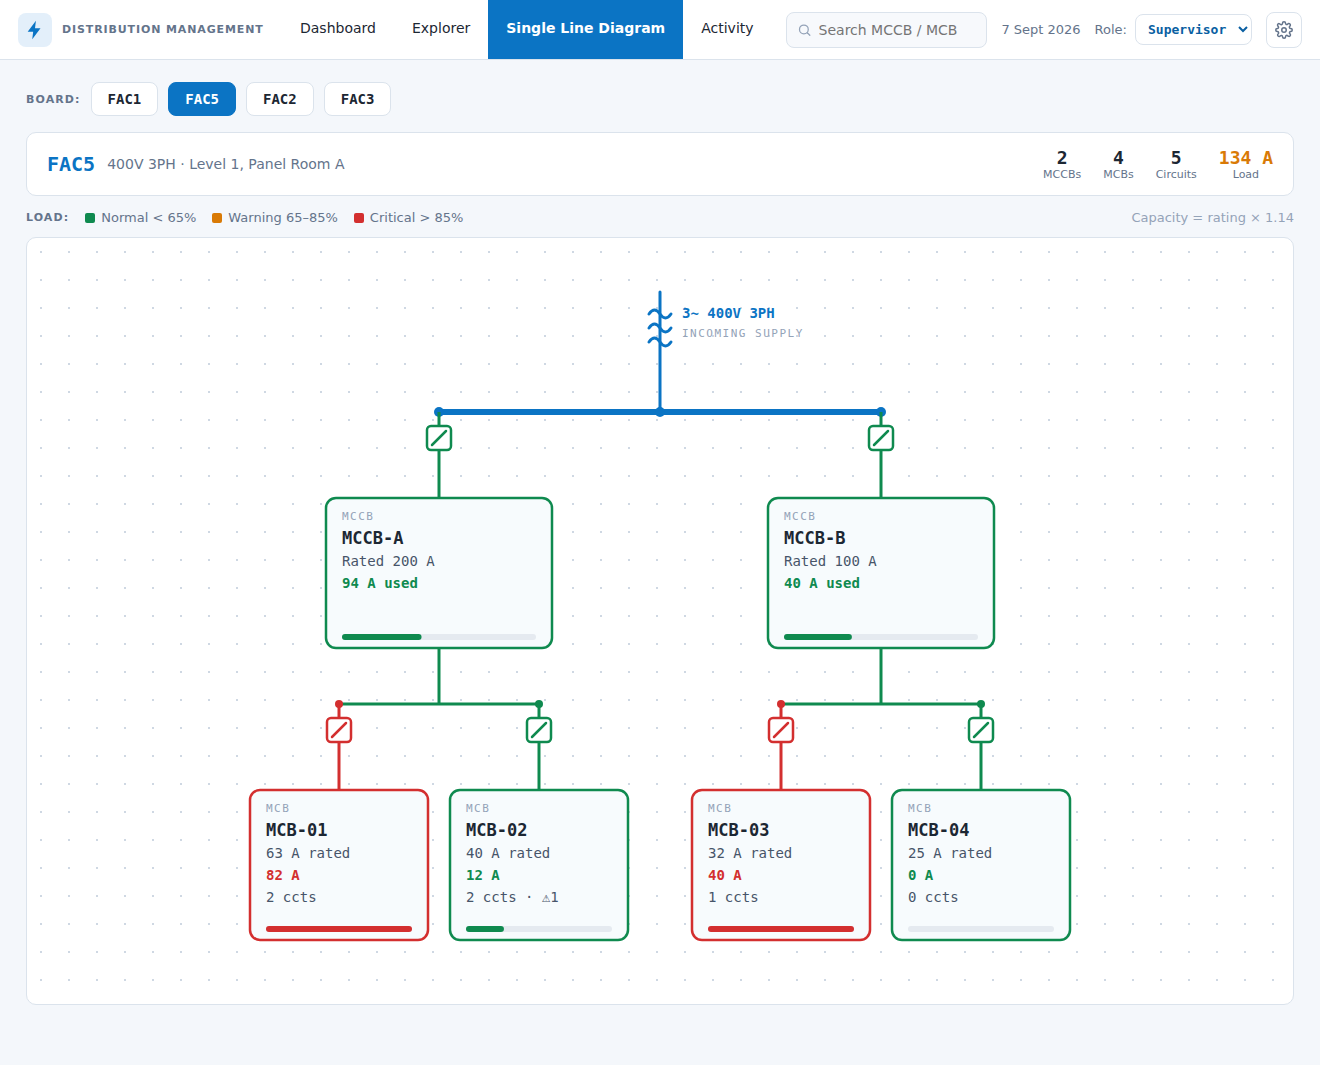
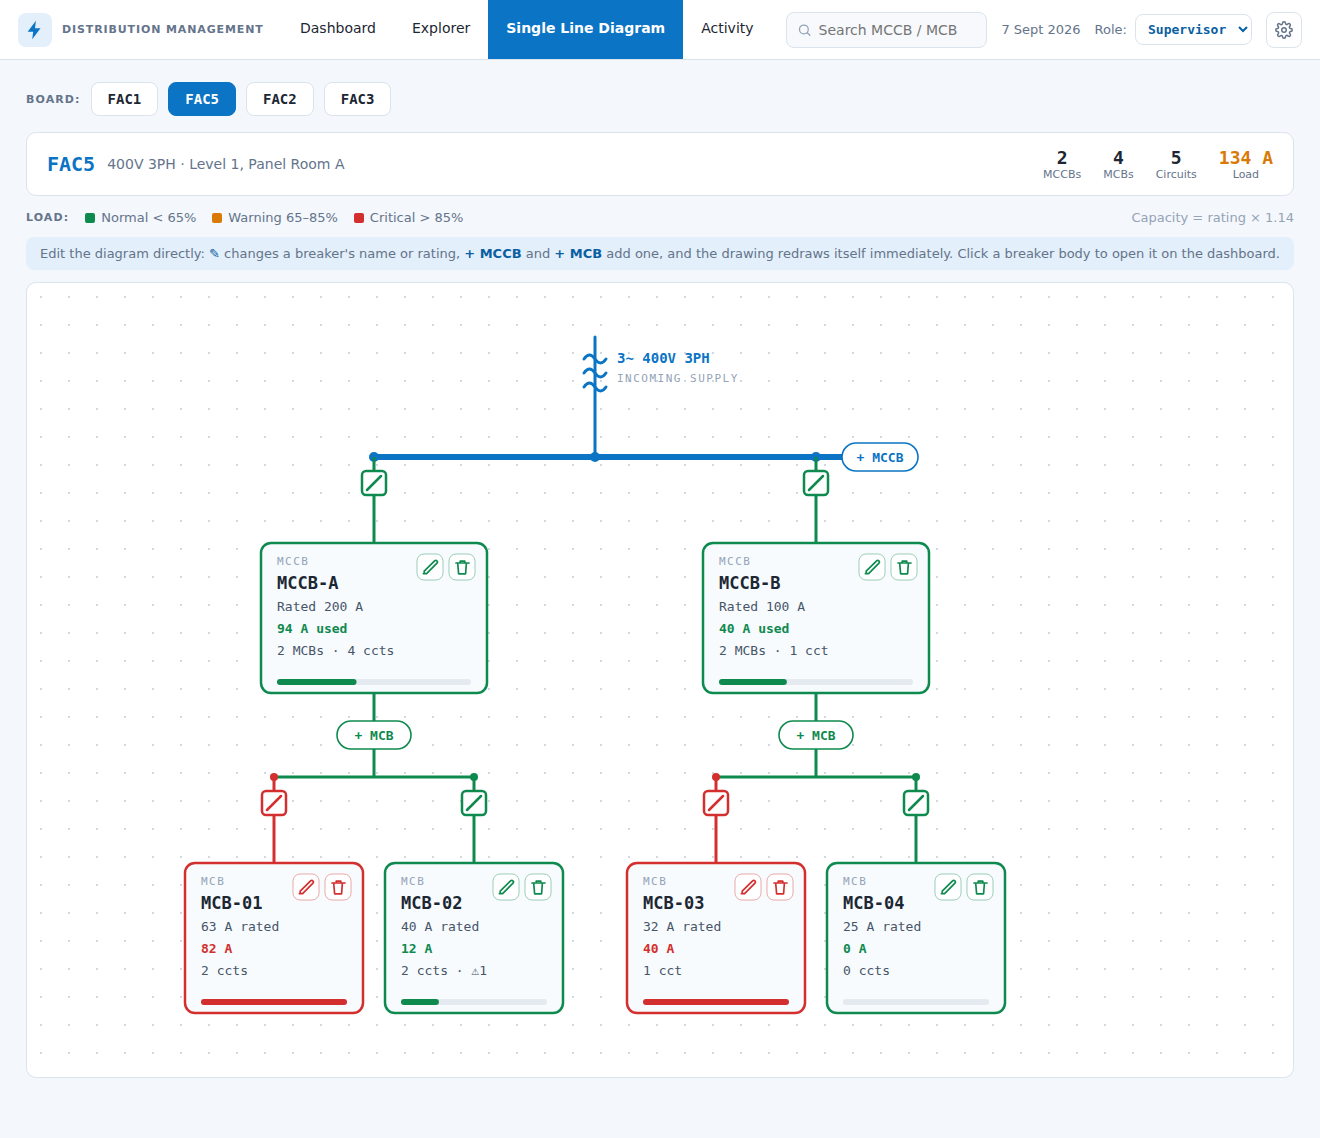
Make MCCBs and MCBs editable directly on the single line diagram
The diagram was read-only; breakers could only be changed from the
dashboard. Every breaker on the SLD now carries its own controls and the
drawing redraws itself as soon as a change is saved.

- Pencil icon on each MCCB/MCB node opens the edit dialog (technician+),
  bin icon deletes it (supervisor); clicking the node body still opens it
  on the dashboard
- "+ MCCB" control on the main busbar and "+ MCB" on each MCCB's drop add
  new breakers in place, so a board can be built up from an empty diagram
- An MCB can be moved to a different MCCB from its edit dialog; the API
  and audit log record the move and the diagram re-routes the branch
- The node that was just added or changed flashes, on the diagram and on
  the dashboard, and new circuits flash too
- Node boxes grew to carry an MCB/circuit count line and the icons

Claude-Session: https://claude.ai/code/session_01SM466UUwg8rhNT1MzNB92w

diff --git a/web/app.js b/web/app.js
@@ -495,43 +495,81 @@
           <span><i style="background:var(--red)"></i>Critical &gt; ${st.crit_pct}%</span>
           <span class="faint" style="margin-left:auto">Capacity = rating × ${st.trip_factor}</span>
         </div>
+        ${canEdit() ? '<p class="sld-hint">Edit the diagram directly: <b>✎</b> changes a breaker\'s name or rating, <b>+ MCCB</b> and <b>+ MCB</b> add one, and the drawing redraws itself immediately. Click a breaker body to open it on the dashboard.</p>' : ''}
         <div class="sld-canvas">${sldSVG(b)}</div>` : '<div class="empty"><h2>No board to draw</h2></div>'}
       </div>`;
+    applyFocus();
+  }
+
+  // Icons drawn as paths so they stay crisp and match the line colours.
+  const SLD_ICONS = {
+    edit: '<path d="M3.4 16.6h3.2L17 6.2a1.7 1.7 0 0 0-2.4-2.4L4.2 14.2v2.4z"/>',
+    del: '<path d="M4 6h13M8.2 6V4.2h4.6V6M5.7 6l.9 10.8h7L14.4 6"/>',
+  };
+
+  function sldIconBtn(x, y, icon, action, id, title, col) {
+    return `<g class="sld-btn" data-action="${action}" data-id="${id}"><title>${esc(title)}</title>` +
+      `<rect x="${x}" y="${y}" width="26" height="26" rx="7" fill="#fff" stroke="${col}" stroke-opacity=".4"/>` +
+      `<g transform="translate(${x + 3} ${y + 3})" fill="none" stroke="${col}" stroke-width="1.7" stroke-linecap="round" stroke-linejoin="round">${SLD_ICONS[icon]}</g></g>`;
+  }
+
+  function sldPill(cx, cy, w, label, attrs, col, title) {
+    return `<g class="sld-pill" ${attrs}><title>${esc(title)}</title>` +
+      `<rect x="${cx - w / 2}" y="${cy - 14}" width="${w}" height="28" rx="14" fill="#fff" stroke="${col}" stroke-width="1.6"/>` +
+      `<text x="${cx}" y="${cy + 5}" text-anchor="middle" font-size="13" font-weight="700" fill="${col}">${esc(label)}</text></g>`;
   }
 
   function sldSVG(b) {
     const COLORS = { normal: '#0f8a4f', warning: '#d97a06', critical: '#d32f2f', bus: '#0b74c4' };
+    const edit = canEdit(), manage = canManage();
     const NODE_W = 178, NODE_H = 150, MCB_GAP = 22, MCCB_W = 226, MCCB_H = 150, GROUP_GAP = 64, MARGIN = 40;
     const groups = b.mccbs.map(m => {
       const n = Math.max(1, m.mcbs.length);
       return { m, width: Math.max(MCCB_W, n * NODE_W + (n - 1) * MCB_GAP) };
     });
+    const anyMCB = groups.some(g => g.m.mcbs.length);
     const contentW = groups.reduce((s, g) => s + g.width, 0) + Math.max(0, groups.length - 1) * GROUP_GAP;
-    const W = Math.max(520, contentW + MARGIN * 2);
-    const supplyY = 30, busY = supplyY + 120, mccbSwY = busY + 26, mccbBoxY = busY + 86;
-    const mcbBusY = mccbBoxY + MCCB_H + 56, mcbSwY = mcbBusY + 26, mcbBoxY = mcbBusY + 86;
-    const H = (groups.length ? mcbBoxY + NODE_H : busY + 60) + MARGIN;
-    const cx0 = W / 2;
-    let out = [];
-    // incoming supply
+    const rightExtra = edit ? 130 : 0;
+    const W = Math.max(560, contentW + MARGIN * 2 + rightExtra);
+    const supplyY = 30, busY = supplyY + 120;
+    const mccbSwY = busY + 26, mccbBoxY = busY + 86;
+    const dropGap = edit ? 84 : 56;
+    const mcbBusY = mccbBoxY + MCCB_H + dropGap, mcbSwY = mcbBusY + 26, mcbBoxY = mcbBusY + 86;
+    const addMcbY = mccbBoxY + MCCB_H + 42;
+    let H;
+    if (!groups.length) H = busY + 110;
+    else if (!anyMCB) H = mccbBoxY + MCCB_H + (edit ? 90 : 40);
+    else H = mcbBoxY + NODE_H + MARGIN;
+
+    const startX = MARGIN + (W - MARGIN * 2 - rightExtra - contentW) / 2;
+    const centers = [];
+    let x = startX;
+    groups.forEach(g => { centers.push(x + g.width / 2); x += g.width + GROUP_GAP; });
+    const cCenter = groups.length ? startX + contentW / 2 : W / 2;
+
+    const out = [];
+    // Incoming supply: transformer squiggle and drop to the main busbar.
     out.push(`<g stroke="${COLORS.bus}" stroke-width="3" fill="none" stroke-linecap="round">
-      <line x1="${cx0}" y1="${supplyY}" x2="${cx0}" y2="${busY}"/>
-      ${[0, 1, 2].map(i => `<path d="M ${cx0 - 11} ${supplyY + 22 + i * 14} q 5.5 -8 11 0 t 11 0"/>`).join('')}
+      <line x1="${cCenter}" y1="${supplyY}" x2="${cCenter}" y2="${busY}"/>
+      ${[0, 1, 2].map(i => `<path d="M ${cCenter - 11} ${supplyY + 22 + i * 14} q 5.5 -8 11 0 t 11 0"/>`).join('')}
     </g>
-    <text x="${cx0 + 22}" y="${supplyY + 26}" font-size="14" font-weight="700" fill="${COLORS.bus}">3~ ${esc(b.voltage)} ${esc(b.phases)}</text>
-    <text x="${cx0 + 22}" y="${supplyY + 45}" font-size="11" fill="#94a3b8" letter-spacing="1.5">INCOMING SUPPLY</text>`);
+    <text x="${cCenter + 22}" y="${supplyY + 26}" font-size="14" font-weight="700" fill="${COLORS.bus}">3~ ${esc(b.voltage)} ${esc(b.phases)}</text>
+    <text x="${cCenter + 22}" y="${supplyY + 45}" font-size="11" fill="#94a3b8" letter-spacing="1.5">INCOMING SUPPLY</text>`);
+
+    // Main busbar, extended to the right to carry the "add MCCB" control.
+    let busL, busR;
+    if (groups.length > 1) { busL = Math.min(centers[0], cCenter); busR = Math.max(centers[centers.length - 1], cCenter); }
+    else { busL = cCenter - 110; busR = cCenter + 110; }
+    const addMccbX = busR + 64;
+    const busEnd = edit ? addMccbX - 38 : busR;
+    out.push(`<line x1="${busL}" y1="${busY}" x2="${busEnd}" y2="${busY}" stroke="${COLORS.bus}" stroke-width="6" stroke-linecap="round"/>`);
+    out.push(`<circle cx="${cCenter}" cy="${busY}" r="5" fill="${COLORS.bus}"/>`);
+    if (edit) out.push(sldPill(addMccbX, busY, 76, '+ MCCB', 'data-action="add-mccb"', COLORS.bus, 'Add an MCCB to this board'));
+
     if (!groups.length) {
-      out.push(`<line x1="${cx0 - 120}" y1="${busY}" x2="${cx0 + 120}" y2="${busY}" stroke="${COLORS.bus}" stroke-width="6" stroke-linecap="round"/>
-        <text x="${cx0}" y="${busY + 40}" text-anchor="middle" font-size="13" fill="#64748b">No MCCBs on this board</text>`);
+      out.push(`<text x="${cCenter}" y="${busY + 46}" text-anchor="middle" font-size="13" fill="#64748b">No MCCBs on this board${edit ? ' - use + MCCB to add the first one' : ''}</text>`);
       return wrap(W, H, out.join(''));
     }
-    // main bus
-    let x = MARGIN + (W - MARGIN * 2 - contentW) / 2;
-    const centers = [];
-    groups.forEach(g => { centers.push(x + g.width / 2); x += g.width + GROUP_GAP; });
-    const busX1 = groups.length > 1 ? centers[0] : cx0 - 120, busX2 = groups.length > 1 ? centers[centers.length - 1] : cx0 + 120;
-    out.push(`<line x1="${Math.min(busX1, cx0)}" y1="${busY}" x2="${Math.max(busX2, cx0)}" y2="${busY}" stroke="${COLORS.bus}" stroke-width="6" stroke-linecap="round"/>`);
-    out.push(`<circle cx="${cx0}" cy="${busY}" r="5" fill="${COLORS.bus}"/>`);
 
     groups.forEach((g, gi) => {
       const m = g.m, cx = centers[gi], col = COLORS[m.level] || COLORS.normal;
@@ -539,22 +577,41 @@
       out.push(`<line x1="${cx}" y1="${busY}" x2="${cx}" y2="${mccbBoxY}" stroke="${col}" stroke-width="3"/>`);
       out.push(breakerSymbol(cx, mccbSwY, col));
       out.push(nodeBox(cx - MCCB_W / 2, mccbBoxY, MCCB_W, MCCB_H, col, 'MCCB', m.name,
-        [`Rated ${fmtA(m.rating_a)} A`, { text: `${fmtA(m.current)} A used`, color: col, bold: true }], m.pct, 'mccb-' + m.id));
-      if (!m.mcbs.length) return;
+        [`Rated ${fmtA(m.rating_a)} A`, { text: `${fmtA(m.current)} A used`, color: col, bold: true },
+          `${m.mcb_count} MCB${m.mcb_count === 1 ? '' : 's'} · ${m.circuit_count} cct${m.circuit_count === 1 ? '' : 's'}`],
+        m.pct, 'mccb-' + m.id, [
+          edit ? { icon: 'edit', action: 'edit-mccb', id: m.id, title: 'Edit ' + m.name } : null,
+          manage ? { icon: 'del', action: 'delete-mccb', id: m.id, title: 'Delete ' + m.name } : null,
+        ]));
+
       const n = m.mcbs.length;
+      if (!n) {
+        if (edit) {
+          out.push(`<line x1="${cx}" y1="${mccbBoxY + MCCB_H}" x2="${cx}" y2="${addMcbY - 14}" stroke="${col}" stroke-width="3" stroke-dasharray="5 5"/>`);
+          out.push(sldPill(cx, addMcbY, 74, '+ MCB', `data-action="add-mcb" data-id="${m.id}"`, col, 'Add an MCB under ' + m.name));
+        }
+        return;
+      }
       const spanW = n * NODE_W + (n - 1) * MCB_GAP;
-      const startX = cx - spanW / 2;
+      const left = cx - spanW / 2;
       out.push(`<line x1="${cx}" y1="${mccbBoxY + MCCB_H}" x2="${cx}" y2="${mcbBusY}" stroke="${col}" stroke-width="3"/>`);
-      if (n > 1) out.push(`<line x1="${startX + NODE_W / 2}" y1="${mcbBusY}" x2="${startX + spanW - NODE_W / 2}" y2="${mcbBusY}" stroke="${col}" stroke-width="3" stroke-linecap="round"/>`);
+      if (n > 1) out.push(`<line x1="${left + NODE_W / 2}" y1="${mcbBusY}" x2="${left + spanW - NODE_W / 2}" y2="${mcbBusY}" stroke="${col}" stroke-width="3" stroke-linecap="round"/>`);
       m.mcbs.forEach((mb, i) => {
-        const mx = startX + i * (NODE_W + MCB_GAP) + NODE_W / 2;
+        const mx = left + i * (NODE_W + MCB_GAP) + NODE_W / 2;
         const mcol = COLORS[mb.level] || COLORS.normal;
         out.push(`<circle cx="${mx}" cy="${mcbBusY}" r="4" fill="${mcol}"/>`);
         out.push(`<line x1="${mx}" y1="${mcbBusY}" x2="${mx}" y2="${mcbBoxY}" stroke="${mcol}" stroke-width="3"/>`);
         out.push(breakerSymbol(mx, mcbSwY, mcol));
         out.push(nodeBox(mx - NODE_W / 2, mcbBoxY, NODE_W, NODE_H, mcol, 'MCB', mb.name,
-          [`${fmtA(mb.rating_a)} A rated`, { text: `${fmtA(mb.current)} A`, color: mcol, bold: true }, `${mb.circuit_count} ccts${mb.maintenance_circuits ? ' · ⚠' + mb.maintenance_circuits : ''}`], mb.pct, 'mcb-' + mb.id));
+          [`${fmtA(mb.rating_a)} A rated`, { text: `${fmtA(mb.current)} A`, color: mcol, bold: true },
+            `${mb.circuit_count} cct${mb.circuit_count === 1 ? '' : 's'}${mb.maintenance_circuits ? ' · ⚠' + mb.maintenance_circuits : ''}`],
+          mb.pct, 'mcb-' + mb.id, [
+            edit ? { icon: 'edit', action: 'edit-mcb', id: mb.id, title: 'Edit ' + mb.name } : null,
+            manage ? { icon: 'del', action: 'delete-mcb', id: mb.id, title: 'Delete ' + mb.name } : null,
+          ]));
       });
+      // The "add MCB" control sits on the drop feeding this MCCB's sub-bus.
+      if (edit) out.push(sldPill(cx, addMcbY, 74, '+ MCB', `data-action="add-mcb" data-id="${m.id}"`, col, 'Add an MCB under ' + m.name));
     });
     return wrap(W, H, out.join(''));
 
@@ -564,7 +621,7 @@
     function breakerSymbol(cx, cy, col) {
       return `<g transform="translate(${cx - 12} ${cy - 12})"><rect width="24" height="24" rx="4" fill="#fff" stroke="${col}" stroke-width="2.5"/><line x1="5" y1="19" x2="19" y2="5" stroke="${col}" stroke-width="2.5" stroke-linecap="round"/></g>`;
     }
-    function nodeBox(x, y, w, h, col, kind, title, lines, pct, focusId) {
+    function nodeBox(x, y, w, h, col, kind, title, lines, pct, focusId, actions) {
       const pad = 16;
       let ty = y + 22;
       let t = `<text x="${x + pad}" y="${ty}" font-size="11" fill="#94a3b8" letter-spacing="1.5">${esc(kind)}</text>`;
@@ -573,11 +630,16 @@
       lines.forEach(l => {
         ty += 22;
         const o = typeof l === 'string' ? { text: l } : l;
-        t += `<text x="${x + pad}" y="${ty}" font-size="14" font-weight="${o.bold ? 700 : 400}" fill="${o.color || '#475569'}">${esc(o.text)}</text>`;
+        t += `<text x="${x + pad}" y="${ty}" font-size="13" font-weight="${o.bold ? 700 : 400}" fill="${o.color || '#475569'}">${esc(o.text)}</text>`;
       });
       const bw = w - pad * 2, by = y + h - 14;
       t += `<rect x="${x + pad}" y="${by}" width="${bw}" height="6" rx="3" fill="#e5eaf0"/><rect x="${x + pad}" y="${by}" width="${bw * Math.min(100, pct) / 100}" height="6" rx="3" fill="${col}"/>`;
-      return `<a href="${boardHash('dashboard', b.id, 'focus=' + focusId)}" class="sld-node"><rect class="box" x="${x}" y="${y}" width="${w}" height="${h}" rx="10" fill="#f7fbfd" stroke="${col}" stroke-width="2.5"/>${t}</a>`;
+      const btns = (actions || []).filter(Boolean);
+      let bx = x + w - 12 - btns.length * 26 - (btns.length - 1) * 6;
+      btns.forEach(a => { t += sldIconBtn(bx, y + 11, a.icon, a.action, a.id, a.title, col); bx += 32; });
+      return `<g id="${focusId}" class="sld-node" data-action="open-node" data-focus="${focusId}">` +
+        `<title>${esc(title)} - click to open on the dashboard</title>` +
+        `<rect class="box" x="${x}" y="${y}" width="${w}" height="${h}" rx="10" fill="#f7fbfd" stroke="${col}" stroke-width="2.5"/>${t}</g>`;
     }
   }
 
@@ -731,15 +793,36 @@
     const isEdit = !!(item && item.id);
     const path = kind === 'mccb' ? '/api/mccbs' : '/api/mcbs';
     const label = kind.toUpperCase();
-    formModal(isEdit ? `Edit ${item.name}` : `Add ${label}`, `
+    const board = state.board;
+    const parent = kind === 'mcb' ? findMCCB(isEdit ? item.mccb_id : Number(parentId)) : null;
+    // An MCB can be moved to another MCCB on the same board, so its parent is
+    // always a field; an MCCB always belongs to the board being viewed.
+    const parentField = kind === 'mcb'
+      ? field('Fed from MCCB', 'mccb_id', parent ? parent.id : (board.mccbs[0] || {}).id, {
+        type: 'select', required: true, full: true,
+        options: board.mccbs.map(m => ({ value: m.id, label: `${m.name} - ${fmtA(m.rating_a)} A rated, ${fmtA(m.current)} A used` })),
+        hint: isEdit ? 'Change this to move the MCB to a different MCCB.' : '',
+      })
+      : '';
+    const title = isEdit ? 'Edit ' + item.name
+      : (kind === 'mccb' ? 'Add MCCB to ' + board.code : 'Add MCB' + (parent ? ' under ' + parent.name : ''));
+    formModal(title, `
+      ${parentField}
       ${field(label + ' name', 'name', isEdit ? item.name : suggestBreakerName(kind, parentId), { required: true, placeholder: kind === 'mccb' ? 'MCCB-C' : 'MCB-05' })}
-      ${field('Rating (A)', 'rating_a', isEdit ? item.rating_a : (kind === 'mccb' ? 100 : 32), { type: 'number', required: true, attrs: 'min="1" max="10000" step="any" list="ratings"' })}
+      ${field('Rating (A)', 'rating_a', isEdit ? item.rating_a : (kind === 'mccb' ? 100 : 32), { type: 'number', required: true, attrs: 'min="1" max="10000" step="any" list="ratings"', hint: 'Capacity shown on the diagram = rating × ' + (state.overview ? state.overview.settings.trip_factor : 1.14) })}
       <datalist id="ratings">${RATINGS.map(r => `<option value="${r}">`).join('')}</datalist>`,
       async d => {
         const body = { name: d.name, rating_a: Number(d.rating_a) };
-        if (kind === 'mccb') body.board_id = state.board.id; else body.mccb_id = Number(parentId);
-        if (isEdit) { await api('PUT', path + '/' + item.id, { name: body.name, rating_a: body.rating_a }); await afterChange(label + ' updated'); }
-        else { await api('POST', path, body); await afterChange(label + ' added'); }
+        if (kind === 'mccb') body.board_id = board.id; else body.mccb_id = Number(d.mccb_id);
+        if (isEdit) {
+          await api('PUT', path + '/' + item.id, kind === 'mccb' ? { name: body.name, rating_a: body.rating_a } : { name: body.name, rating_a: body.rating_a, mccb_id: body.mccb_id });
+          state.focus = kind + '-' + item.id;
+          await afterChange(label + ' updated');
+        } else {
+          const r = await api('POST', path, body);
+          state.focus = kind + '-' + r.id;
+          await afterChange(label + ' added');
+        }
       },
       isEdit && canManage() ? { deleteLabel: 'Delete ' + label, onDelete: () => deleteBreaker(kind, item) } : {});
   }
@@ -787,7 +870,7 @@
       async d => {
         const body = { mcb_id: Number(d.mcb_id), name: d.name, code: d.code, load_a: Number(d.load_a), status: d.status, equipment_count: Number(d.equipment_count || 0), service: d.service, notes: d.notes };
         if (isEdit) { await api('PUT', '/api/circuits/' + c.id, body); await afterChange('Circuit updated'); }
-        else { const r = await api('POST', '/api/circuits', body); await afterChange('Circuit ' + r.code + ' added'); }
+        else { const r = await api('POST', '/api/circuits', body); state.focus = 'circuit-' + r.id; await afterChange('Circuit ' + r.code + ' added'); }
       },
       isEdit && canManage() ? { deleteLabel: 'Delete circuit', onDelete: () => deleteCircuit(c) } : {});
     if (!isEdit) {
@@ -933,6 +1016,7 @@
         break;
       }
       case 'open-board': navigate(boardHash('dashboard', id)); break;
+      case 'open-node': navigate(boardHash('dashboard', state.boardId, 'focus=' + el.dataset.focus)); break;
       case 'sld-board': navigate(boardHash('sld', id)); break;
       case 'toggle-mccb': {
         const key = 'mccb-' + id, sec = document.getElementById(key);

diff --git a/web/styles.css b/web/styles.css
@@ -295,7 +295,19 @@ table.grid td.bar-cell .bar { width: 90px; display: inline-block; vertical-align
 }
 .sld-canvas svg { display: block; margin: 0 auto; max-width: 100%; height: auto; font-family: var(--mono); }
 .sld-node { cursor: pointer; }
-.sld-node:hover rect.box { filter: brightness(.97); }
+.sld-node:hover rect.box { fill: #eef6fc; }
+.sld-btn, .sld-pill { cursor: pointer; }
+.sld-btn:hover rect { fill: var(--primary-soft); }
+.sld-pill rect { transition: fill .12s; }
+.sld-pill:hover rect { fill: var(--primary-soft); }
+.sld-node.flash rect.box { animation: sldflash 1.7s ease-out; }
+@keyframes sldflash {
+  0% { stroke-width: 9; fill: #fff6da; }
+  60% { stroke-width: 4; }
+  100% { stroke-width: 2.5; fill: #f7fbfd; }
+}
+.sld-hint { margin: 0 0 12px; font-size: 13px; color: var(--muted); background: var(--primary-soft); border-radius: 8px; padding: 9px 14px; }
+.sld-hint b { color: var(--primary-dark); }
 
 /* ------------------------------------------------------------------ activity */
 .activity-head { display: flex; align-items: center; justify-content: space-between; margin-bottom: 14px; }

diff --git a/internal/db/db.go b/internal/db/db.go
@@ -911,16 +911,34 @@ func (s *Store) CreateMCB(ctx context.Context, role string, m model.MCB) (int64,
 	return id, err
 }
 
+// UpdateMCB renames, re-rates and optionally re-parents an MCB. A zero MCCBID
+// leaves the MCB where it is, so callers that only rename need not know it.
 func (s *Store) UpdateMCB(ctx context.Context, role string, m model.MCB) error {
 	return s.withTx(ctx, func(tx pgx.Tx) error {
-		tag, err := tx.Exec(ctx, `UPDATE mcbs SET name = $2, rating_a = $3, updated_at = now() WHERE id = $1`, m.ID, m.Name, m.RatingA)
+		var oldParent, newParent string
+		err := tx.QueryRow(ctx, `SELECT old.name, new.name FROM mcbs mb
+			JOIN mccbs old ON old.id = mb.mccb_id
+			JOIN mccbs new ON new.id = coalesce(nullif($2::bigint, 0), mb.mccb_id)
+			WHERE mb.id = $1`, m.ID, m.MCCBID).Scan(&oldParent, &newParent)
+		if err != nil {
+			if errors.Is(err, pgx.ErrNoRows) {
+				return ErrNotFound
+			}
+			return err
+		}
+		tag, err := tx.Exec(ctx, `UPDATE mcbs SET mccb_id = coalesce(nullif($2::bigint, 0), mccb_id),
+			name = $3, rating_a = $4, updated_at = now() WHERE id = $1`, m.ID, m.MCCBID, m.Name, m.RatingA)
 		if err != nil {
 			return err
 		}
 		if tag.RowsAffected() == 0 {
 			return ErrNotFound
 		}
-		return s.audit(ctx, tx, role, "update", "mcb", m.ID, fmt.Sprintf("Updated %s (%g A)", m.Name, m.RatingA))
+		summary := fmt.Sprintf("Updated %s (%g A)", m.Name, m.RatingA)
+		if oldParent != newParent {
+			summary = fmt.Sprintf("Moved %s (%g A) from %s to %s", m.Name, m.RatingA, oldParent, newParent)
+		}
+		return s.audit(ctx, tx, role, "update", "mcb", m.ID, summary)
 	})
 }
 

diff --git a/internal/api/server.go b/internal/api/server.go
@@ -703,7 +703,7 @@ func (s *Server) handleMCBUpdate(w http.ResponseWriter, r *http.Request) {
 		fail(w, err)
 		return
 	}
-	if err := s.Store.UpdateMCB(ctx(r), roleOf(r), model.MCB{ID: id, Name: strings.TrimSpace(in.Name), RatingA: in.RatingA}); err != nil {
+	if err := s.Store.UpdateMCB(ctx(r), roleOf(r), model.MCB{ID: id, MCCBID: in.MCCBID, Name: strings.TrimSpace(in.Name), RatingA: in.RatingA}); err != nil {
 		fail(w, err)
 		return
 	}

diff --git a/README.md b/README.md
@@ -9,6 +9,10 @@ the interface in a native window and talks to your PostgreSQL server directly.
 
 ![Dashboard](docs/screenshot-dashboard.png)
 
+The single line diagram is drawn from the same data and can be edited directly:
+
+![Single line diagram](docs/screenshot-sld.png)
+
 ## Features
 
 - **Dashboard** - buildings sidebar, per-board totals (total current, MCB
@@ -18,7 +22,12 @@ the interface in a native window and talks to your PostgreSQL server directly.
 - **Explorer** - flat, filterable table of every circuit across the site with
   CSV export.
 - **Single Line Diagram** - auto-generated SLD of any board, colour-coded by
-  load level; click a breaker to jump to it on the dashboard.
+  load level, and **editable in place**: the pencil on any breaker changes its
+  name or rating, the bin deletes it, and the `+ MCCB` / `+ MCB` controls on the
+  busbars add new ones. The drawing redraws itself immediately after every
+  change, so a whole board can be built up from an empty diagram. An MCB can
+  also be moved to a different MCCB and the diagram re-routes it. Clicking a
+  breaker body opens it on the dashboard.
 - **Activity** - audit log of every change (who, what, when).
 - **Global search** across boards, MCCBs, MCBs and circuits.
 - **Roles** - Viewer (read only), Technician (add/edit breakers and circuits),
@@ -120,6 +129,8 @@ buildings ─< boards ─< mccbs ─< mcbs ─< circuits
   sum of MCB ratings.
 - Deleting a parent removes everything beneath it (confirmed in the UI and
   restricted to the Supervisor role).
+- An MCB can be re-parented onto another MCCB; breaker names must be unique
+  within their parent.
 
 ## Security notes
 
